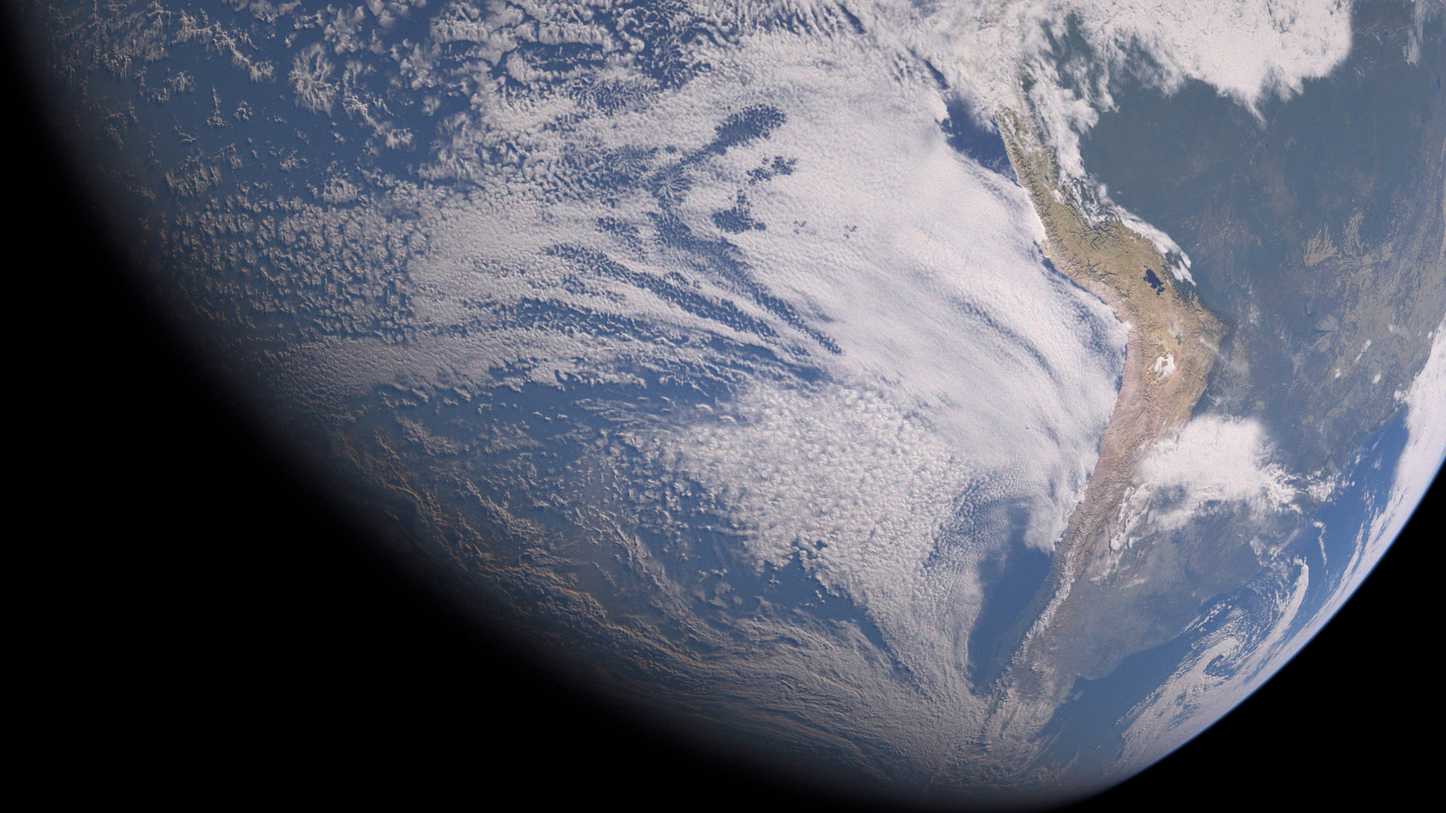
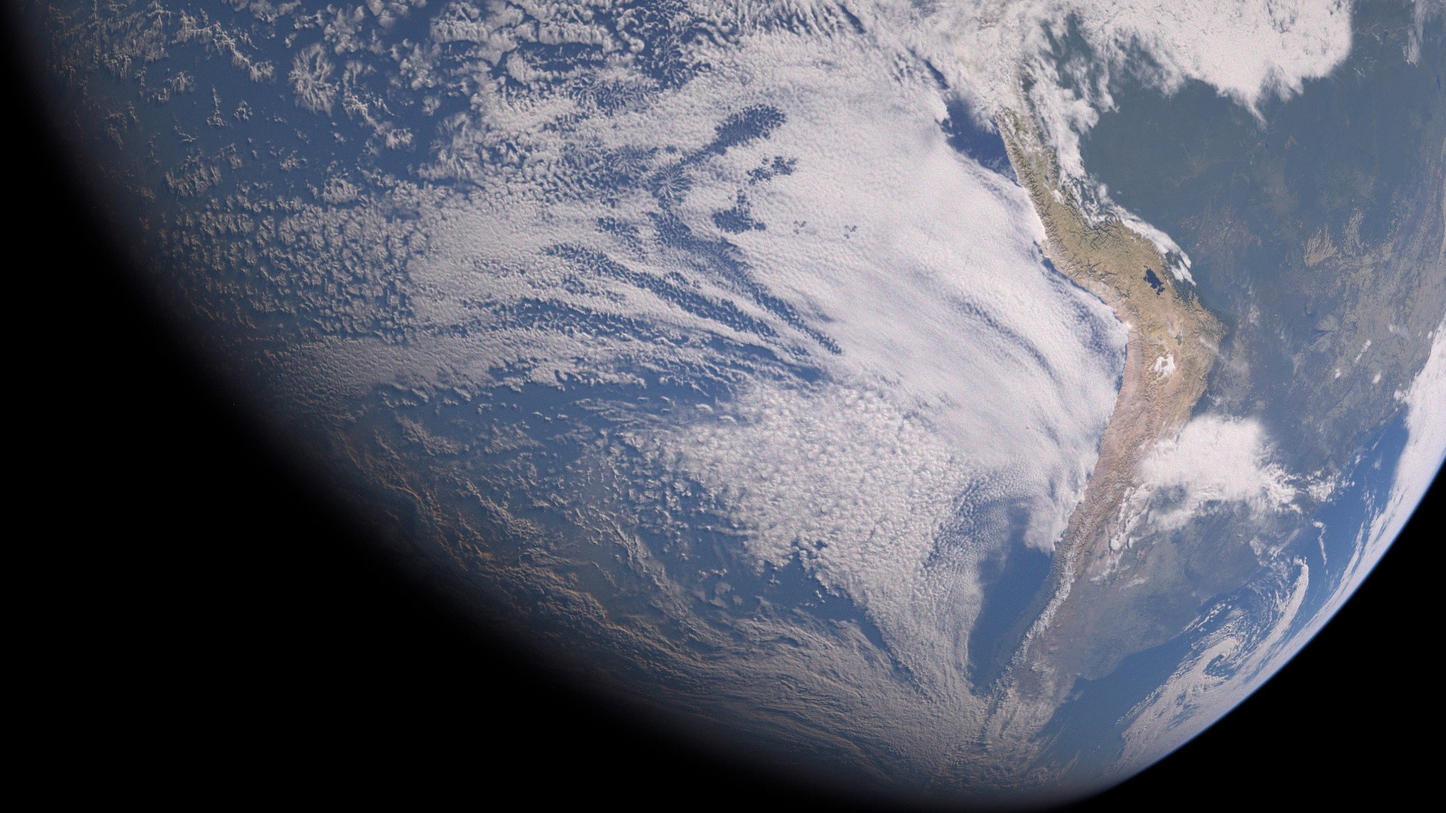
as

diff --git a/pathtracer.py b/pathtracer.py
@@ -284,7 +284,7 @@ def get_land_material(albedo_sampler: ti.template(), ocean_sampler: ti.template(
     land_albedo_srgb = mix(lum3(albedo_texture_srgb), albedo_texture_srgb, 6.5)
     land_greenery = pow(land_albedo_srgb.y / lum(land_albedo_srgb), 2.0)
     land_greenery = smoothstep(1.5, 1.9, land_greenery)
-    land_albedo_srgb = 1.7*albedo_texture_srgb / (land_greenery*1.35 + 1.0)
+    land_albedo_srgb = 1.2*albedo_texture_srgb / (land_greenery*0.9 + 1.0)
     land_albedo_srgb = mix(lum3(land_albedo_srgb), land_albedo_srgb, 1.2 - land_greenery*0.2)
     land_albedo_srgb.x = land_albedo_srgb.x*(1.0 + land_greenery*0.3)
 

diff --git a/lib/volume_rendering_models.py b/lib/volume_rendering_models.py
@@ -32,7 +32,7 @@ atmos_upper_limit = planet_r + atmos_height
 # Cloud constants
 clouds_extinct = 0.1
 clouds_density = 0.0175
-clouds_height = 4000.0
+clouds_height = 5500.0
 clouds_thickness = 6000.0
 clouds_lower_limit = planet_r + clouds_height
 clouds_upper_limit = clouds_lower_limit + clouds_thickness

diff --git a/lib/AgX.py b/lib/AgX.py
@@ -18,7 +18,7 @@ COMPRESSION = 0.15 # Default = 0.15
 #Demo Settings
 MIN_EV = -10.0
 MAX_EV = 6.5
-SATURATION = 1.2
+SATURATION = 1.4
 
 @ti.func
 def InverseMat(m: mat3):
